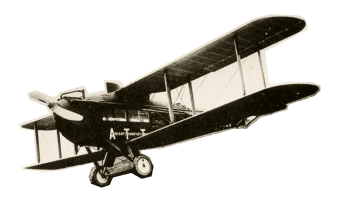
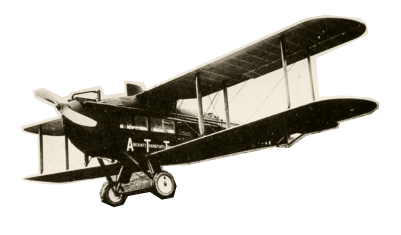
feat: design desktop block stages

Changed region(s): [[0.0293, 0.0558, 0.9677, 0.893], [0.7038, 0.0837, 0.7918, 0.1395], [0.5865, 0.1953, 0.6158, 0.2233]]

diff --git a/styles/blocks/stages.css b/styles/blocks/stages.css
@@ -8,20 +8,20 @@
     margin-block-end: 28px;
 }
 
-.stages__decor::before {
+.stages__slider-list .slider__item::before {
     background-image: url(../../images/airplane.png);
     background-size: cover;
-    content: ' ';
-    width: 341px;
-    height: 215px;
+    width: 320px;
+    height: 198px;
     display: block;
     z-index: 1;
     position: relative;
-    margin-bottom: -86px;
+    margin-bottom: -70px;
     margin-left: auto;
-    left: 10px;
-    top: -13px;
+    left: -5px;
+    top: -5px;
     z-index: 2;
+    transform: rotate(-3deg);
 }
 
 .stage__card {
@@ -49,4 +49,90 @@
     font-size: 20px;
     line-height: 120%;
     align-self: flex-start;
+}
+
+@media (max-width:1023px) {
+    .stages__slider-list .slider__item:first-child::before {
+        content: '';
+    }
+
+    .stages__slider-list .slider__item_active~.slider__item_active .slider__content {
+        padding-block-start: 7px;
+    }
+}
+
+@media (min-width: 1024px) {
+    .stages__slider-list {
+        grid-template-columns: repeat(3, 1fr);
+        grid-template-rows: minmax(112px, 1fr);
+        grid-auto-rows: minmax(112px, auto);
+        gap: 20px;
+    }
+
+    .stages__slider-list .slider__item:nth-child(3) {
+        grid-row: span 2;
+    }
+
+    .stages__slider-list>.slider__item {
+        grid-column: auto;
+        grid-row: auto;
+    }
+
+    .stage__card {
+        padding: 20px;
+        font-size: 20px;
+        line-height: 120%;
+    }
+
+    .stages__slider-list .slider__item:last-child {
+        grid-column: span 2;
+    }
+
+    .stages__slider-list .slider__item:last-child::before {
+        content: '';
+        position: absolute;
+        right: 0;
+        left: 0;
+        margin-bottom: 0;
+        top: -100px;
+        transform: rotate(0);
+    }
+
+    .stages__slider-list .slider__item:last-child .stage__card {
+        padding-inline-end: 326px;
+    }
+
+    .stages__slider,
+    .stages__slider-list .slider__item:last-child {
+        overflow: visible;
+    }
+
+    .stages__intro {
+        max-width: 806px;
+        display: block;
+    }
+
+    .stages__title {
+        display: inline;
+        vertical-align: middle;
+    }
+
+    .stages__subtitle {
+        max-width: 280px;
+        vertical-align: middle;
+        display: inline-block;
+        padding-inline-start: 15px;
+    }
+}
+
+@media (min-width: 1300px) {
+    .stages__slider-list .slider__item:last-child::before {
+        right: -60px;
+        width: 400px;
+        height: 230px;
+    }
+
+    .stages {
+        gap: 55px 0;
+    }
 }

diff --git a/index.html b/index.html
@@ -152,15 +152,15 @@
         </p>
       </section>
       <section class="stages page__section">
-        <article class="content__section-intro">
-          <h2 class="main-title">Этапы преображения Васюков</h2>
-          <p class="content__info-text">
+        <article class="content__section-intro stages__intro">
+          <h2 class="main-title stages__title">Этапы преображения Васюков</h2>
+          <p class="content__info-text stages__subtitle">
             Будущие источники обогащения васюкинцев
           </p>
         </article>
-        <div class="slider slider-js">
+        <div class="slider stages__slider">
           <ul class="slider__list stages__slider-list">
-            <li class="slider__item slider__item_active stages__decor">
+            <li class="slider__item slider__item_active">
               <article class="slider__content decor decor_stamp stage__card">
                 <p class="stage__card-text">
                   Строительство железнодорожной магистрали Москва-Васюки

diff --git a/styles/blocks/main-title.css b/styles/blocks/main-title.css
@@ -3,11 +3,17 @@
     text-transform: uppercase;
     color: var(--title-text-color);
     font-family: var(--title-family);
-    font-size: 36px;
+    font-size: clamp(2.25rem, 5vw, 3.375rem);
     line-height: 110%;
 }
 
 .main-title__accent {
     font-weight: 700;
     color: var(--title-accent-color);
+}
+
+@media (min-width:1024px) {
+    .main-title {
+        line-height: 120%;
+    }
 }

diff --git a/styles/blocks/slider.css b/styles/blocks/slider.css
@@ -32,10 +32,6 @@
     grid-row: auto;
 }
 
-.slider__item_active~.slider__item_active .slider__content {
-    padding-block-start: 7px;
-}
-
 .slider__button {
     width: 36px;
     height: 36px;

diff --git a/styles/blocks/content.css b/styles/blocks/content.css
@@ -32,3 +32,9 @@
         font-size: 20px;
     }
 }
+
+@media (min-width: 1300px) {
+    .content {
+        gap: 200px 0;
+    }
+}

diff --git a/styles/blocks/header/__title/header__title.css b/styles/blocks/header/__title/header__title.css
@@ -8,5 +8,6 @@
 @media (min-width: 1300px) {
     .header__title {
         margin-top: 60px;
+        line-height: 110%;
     }
 }
